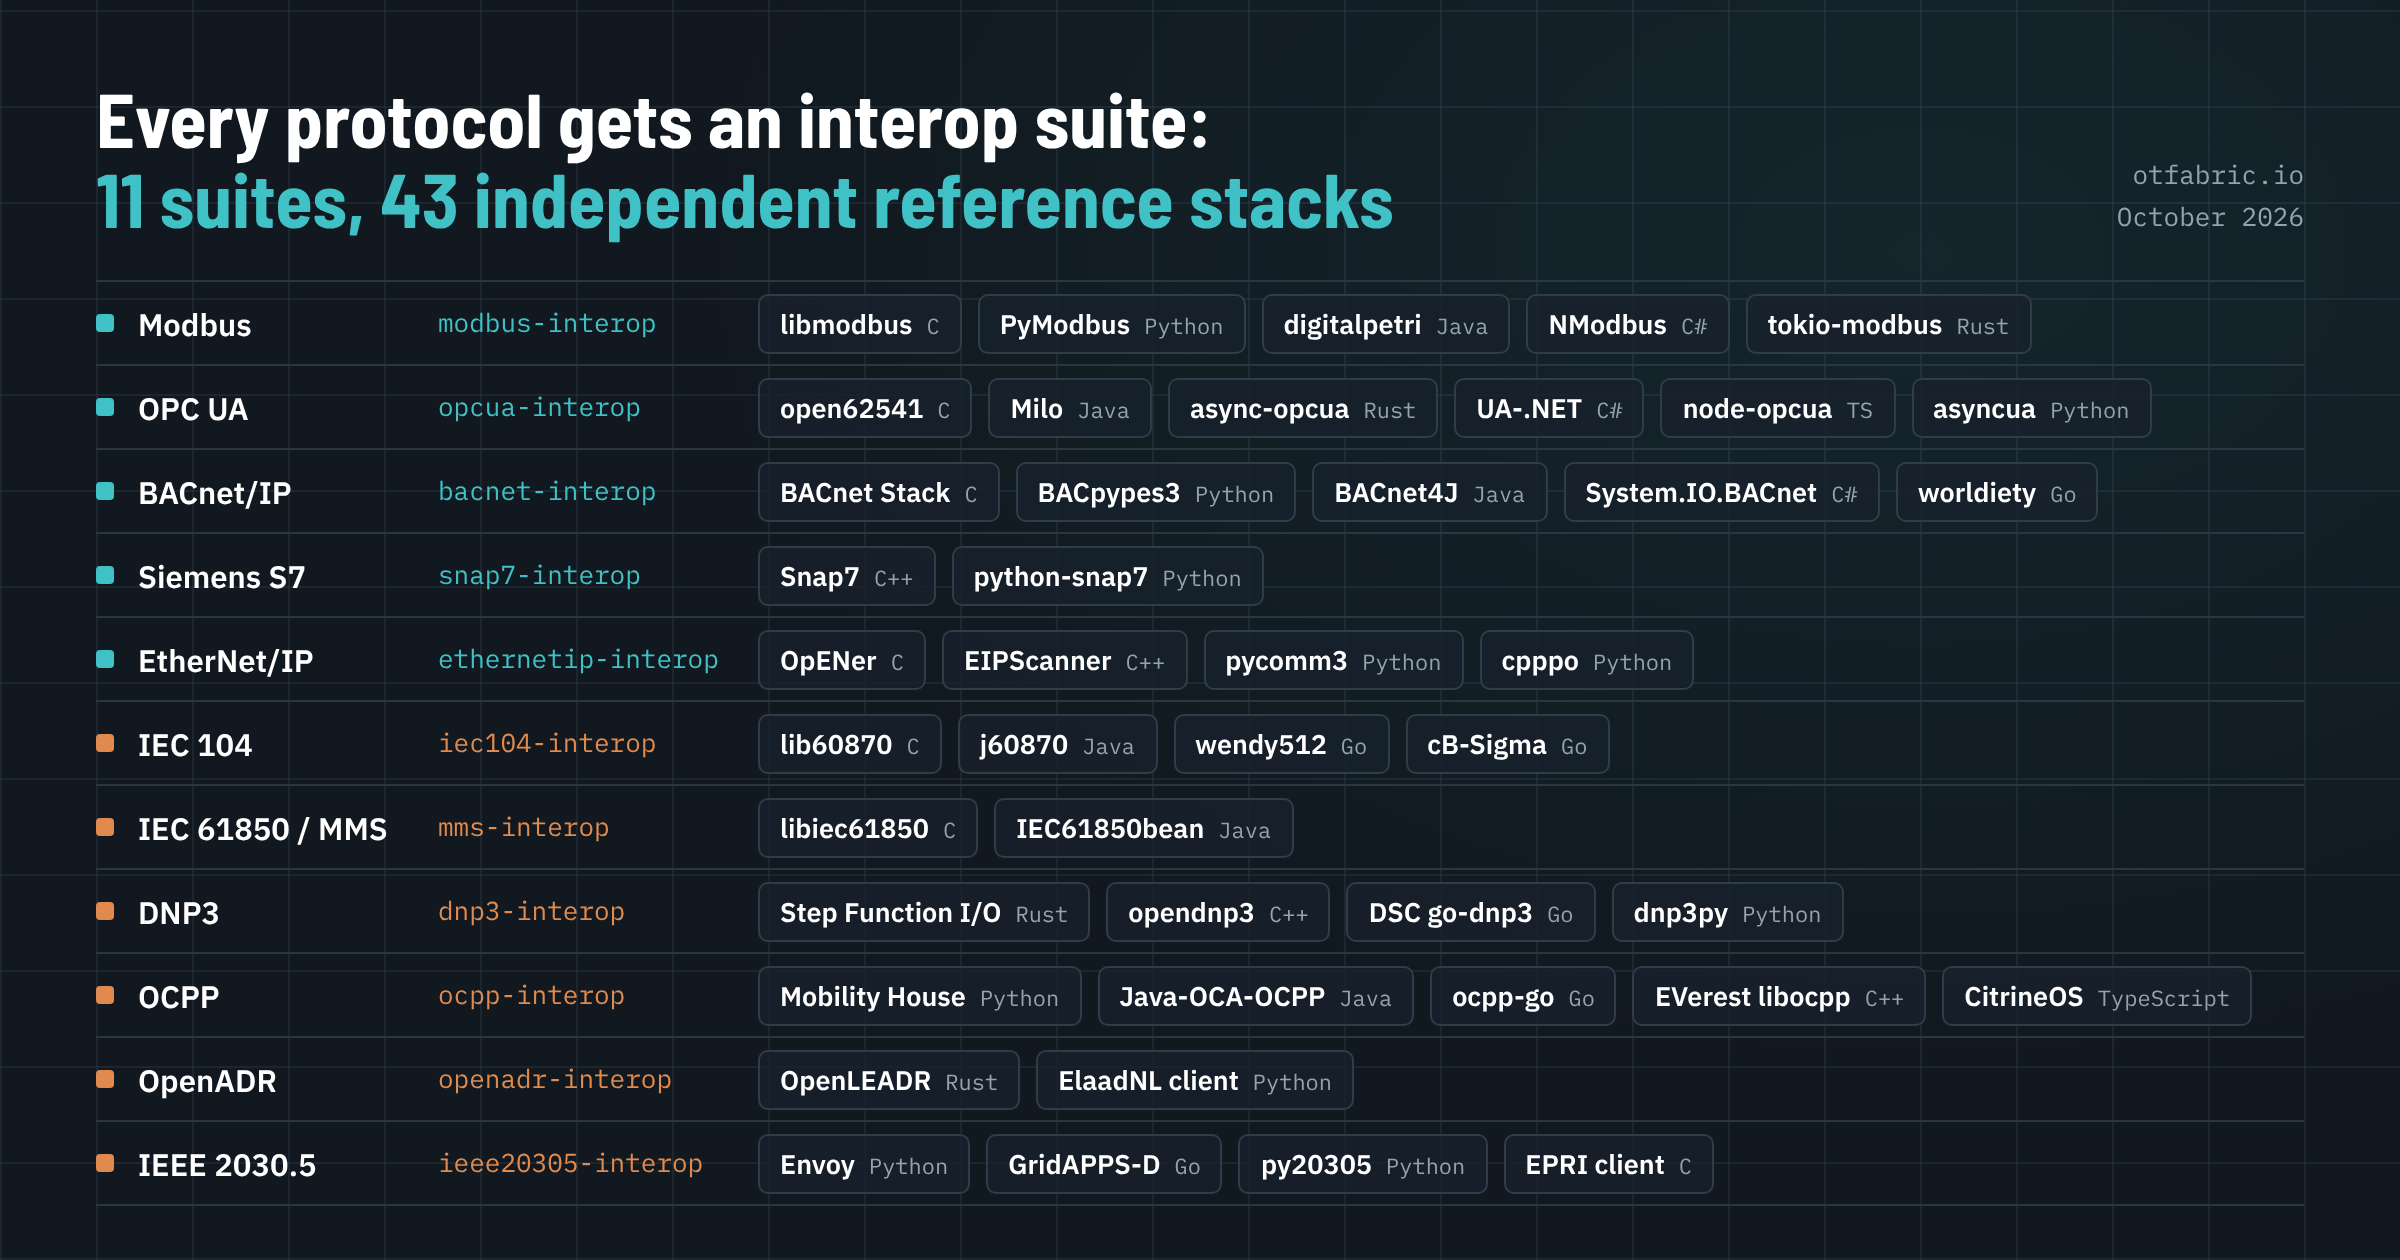
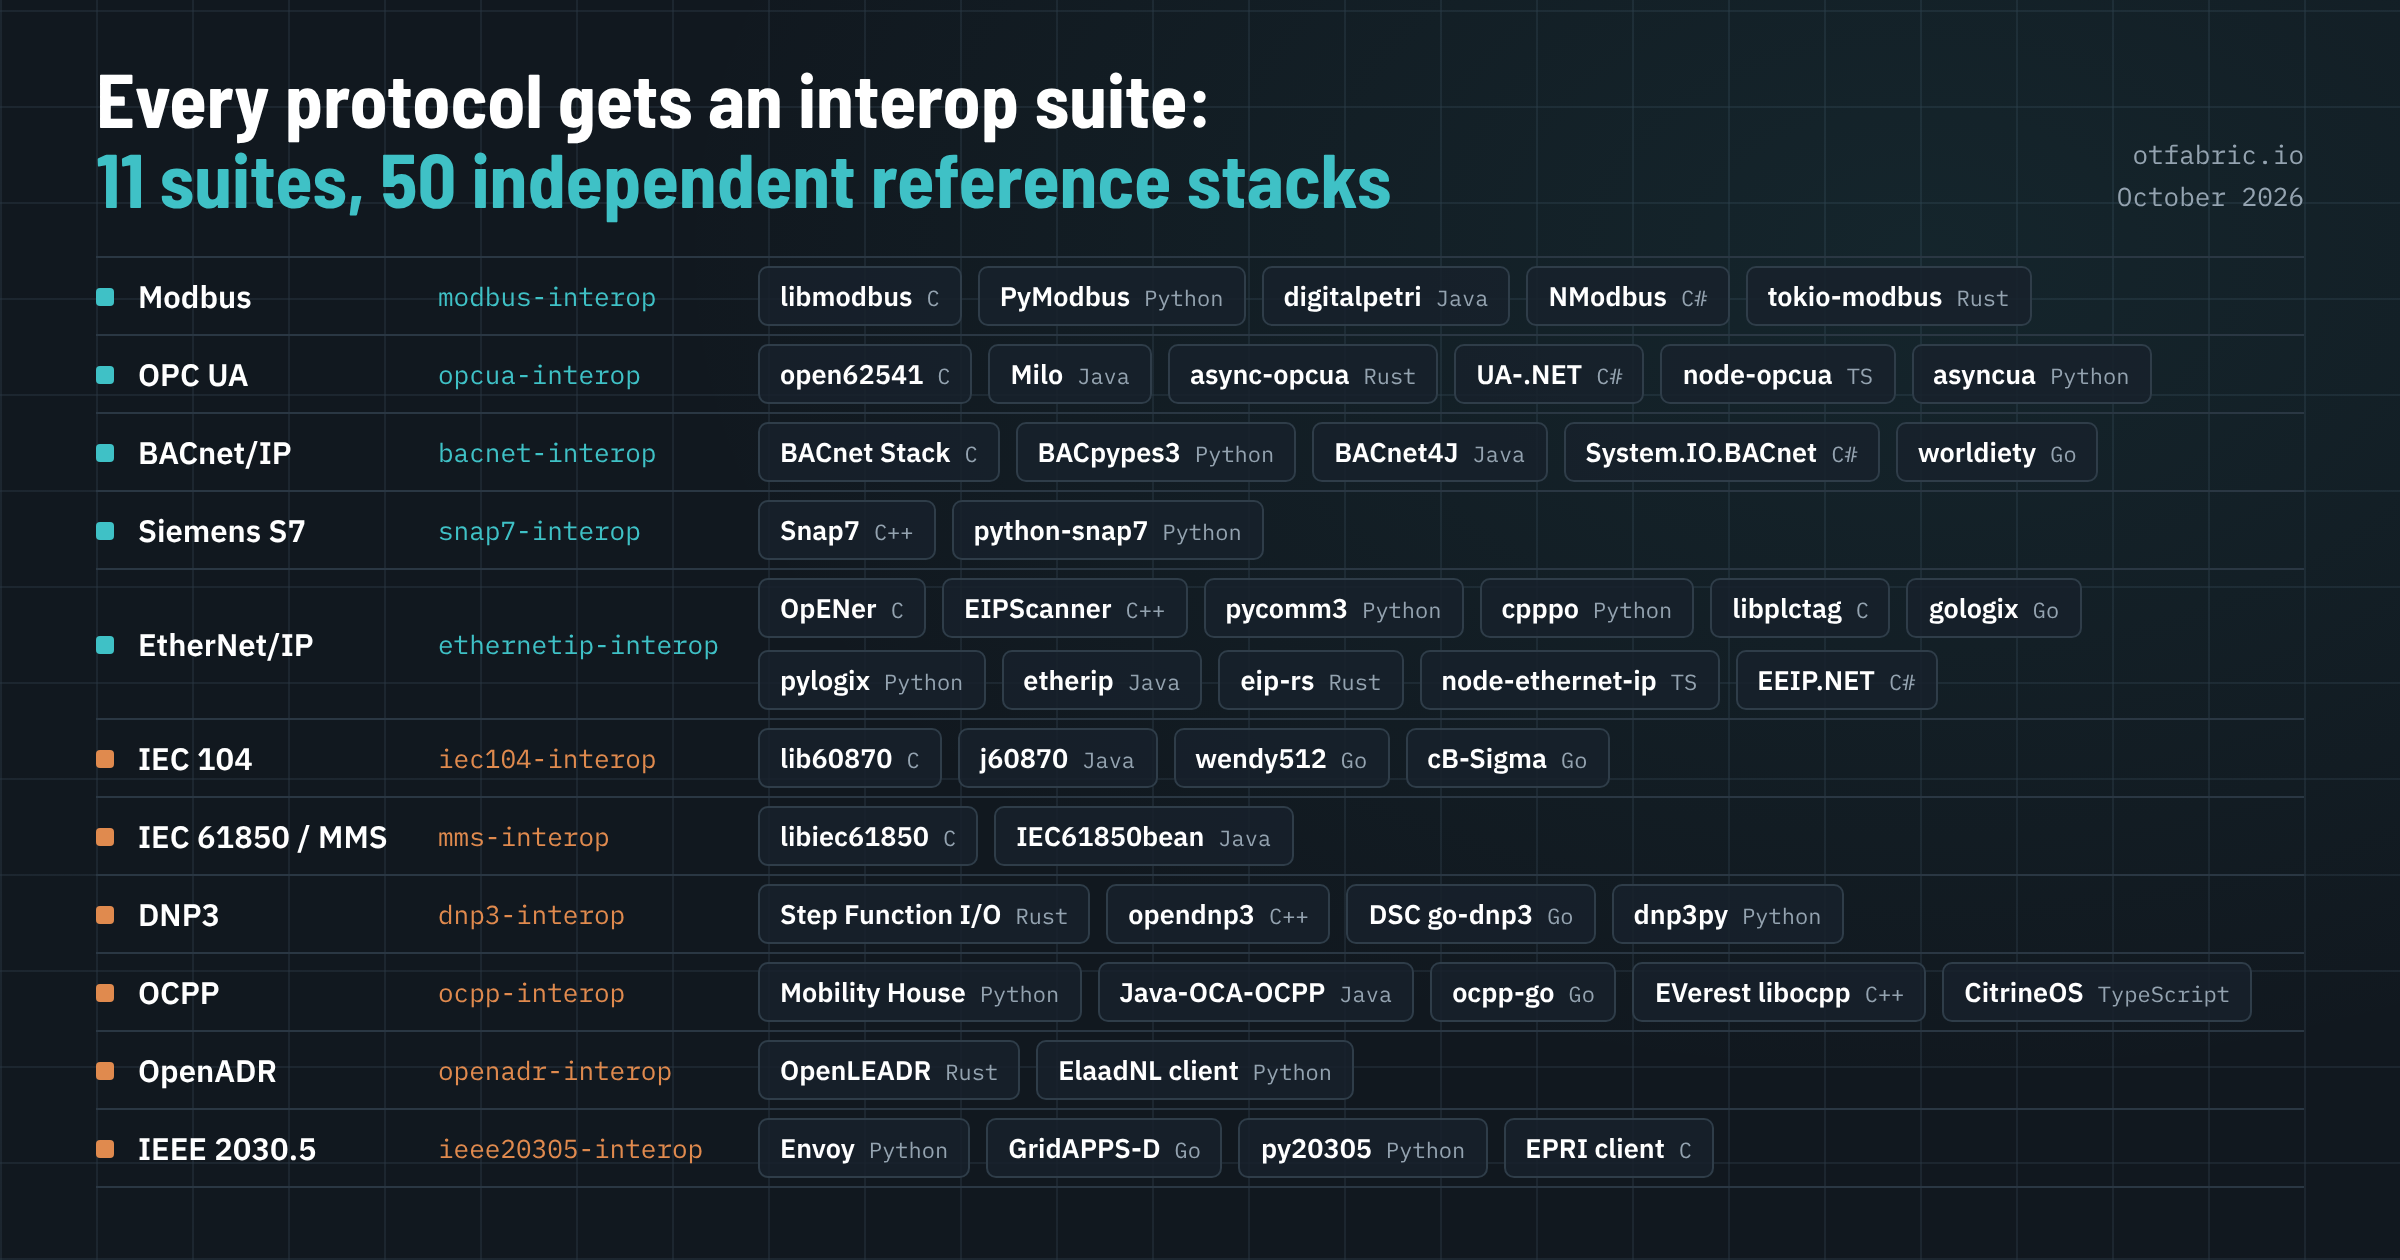
Redesign the ecosystem protocol selector; EtherNet/IP interop with eleven stacks (#29)
* Redesign the ecosystem protocol selector as a wrapping grid

The protocol pills overflowed into a horizontal scrollbar at 11 protocols.
They now wrap into an even grid on desktop and fold behind a single
'current protocol' button on phones. Arrow, Home and End keys move
between tabs, and the map card no longer widens the page on phones.

Claude-Session: https://claude.ai/code/session_01FcRff6EQbY475YMKaoKu9i

* Update EtherNet/IP for go-ethernetip v0.3.0 and ethernetip-interop v0.3.0

ethernetip-interop v0.3.0 adds seven reference stacks (libplctag, gologix,
pylogix, etherip, eip-rs, node-ethernet-ip and EEIP.NET); go-ethernetip
v0.3.0 passes 173 cases against all eleven, none failing. The map marks
the seven as interop tested (51 in total), the testing page, protocol
page, docs, catalog and both blog posts follow, ethernetipctl is v0.2.2,
and the interop suites cover now shows 50 reference stacks.

Claude-Session: https://claude.ai/code/session_01FcRff6EQbY475YMKaoKu9i

---------

diff --git a/src/content/blog/why-every-protocol-gets-an-interop-suite.md b/src/content/blog/why-every-protocol-gets-an-interop-suite.md
@@ -1,12 +1,12 @@
 ---
 title: Why every protocol gets an interop suite
-description: Every OT Fabric protocol is tested against independent implementations. Eleven interop suites package 43 reference stacks as containers behind one contract, test them against each other first, and record what they find in our code and in theirs.
+description: Every OT Fabric protocol is tested against independent implementations. Eleven interop suites package 50 reference stacks as containers behind one contract, test them against each other first, and record what they find in our code and in theirs.
 date: 2026-10-12
 updated: 2026-10-26
 authors: [OT Fabric]
 tags: [testing, interop]
 cover:
-  alt: Eleven OT Fabric interop suites and their 43 independent reference stacks. Modbus, OPC UA, BACnet/IP, Siemens S7, IEC 104, IEC 61850 / MMS, DNP3, OCPP, OpenADR, IEEE 2030.5 and EtherNet/IP, each with the open-source implementations its suite runs and their languages.
+  alt: Eleven OT Fabric interop suites and their 50 independent reference stacks. Modbus, OPC UA, BACnet/IP, Siemens S7, IEC 104, IEC 61850 / MMS, DNP3, OCPP, OpenADR, IEEE 2030.5 and EtherNet/IP, each with the open-source implementations its suite runs and their languages.
   image: ../../assets/blog/interop-suites.png
 ---
 
@@ -14,7 +14,7 @@ A protocol library that only passes its own tests proves very little. Two implem
 
 So every OT Fabric protocol comes with an interoperability suite: independent, established stacks packaged as containers, with deterministic fixtures and a common contract. Our libraries and tools are tested against them in both directions before a release says it works.
 
-## Eleven suites, 43 reference stacks
+## Eleven suites, 50 reference stacks
 
 | Protocol | Suite | Reference implementations |
 |---|---|---|
@@ -28,7 +28,7 @@ So every OT Fabric protocol comes with an interoperability suite: independent, e
 | [OCPP](/protocols/ocpp/) | [ocpp-interop](/projects/ocpp-interop/) | The Mobility House ocpp (Python), ChargeTimeEU Java-OCA-OCPP (Java), ocpp-go (Go), EVerest libocpp (C++), CitrineOS (TypeScript) |
 | [OpenADR](/protocols/openadr/) | [openadr-interop](/projects/openadr-interop/) | OpenLEADR (Rust), ElaadNL openadr3-client (Python), plus a specification-driven conformance suite |
 | [IEEE 2030.5](/protocols/ieee-2030-5/) | [ieee20305-interop](/projects/ieee20305-interop/) | ANU Envoy (Python), GridAPPS-D (Go), DER Security py20305 (Python), EPRI client (C) |
-| [EtherNet/IP](/protocols/ethernet-ip/) | [ethernetip-interop](/projects/ethernetip-interop/) | OpENer (C), EIPScanner (C++), pycomm3 (Python), cpppo (Python) |
+| [EtherNet/IP](/protocols/ethernet-ip/) | [ethernetip-interop](/projects/ethernetip-interop/) | OpENer (C), EIPScanner (C++), pycomm3 (Python), cpppo (Python), libplctag (C), gologix (Go), pylogix (Python), etherip (Java), eip-rs (Rust), node-ethernet-ip (TypeScript), EEIP.NET (C#) |
 
 SunSpec is the exception: it is a register model on top of Modbus, so go-sunspec is tested through its own server, offline decoding and a weekly comparison with the SunSpec Alliance's model definitions, and its Modbus layer is covered by modbus-interop.
 
@@ -70,7 +70,7 @@ A library runs its own scenarios against the images, in both roles: our client a
 - **go-opcua**: client and server against all six OPC UA stacks in both directions, with 1280 verified ledger rows, plus PubSub against open62541 and UA-.NETStandard, UA JSON over HTTPS and WebSockets against UA-.NETStandard, the GDS pull model against the UA-.NETStandard Global Discovery Server, and event history and certificate management from every peer client.
 - **go-ieee20305**: its client and device agent against the Envoy and GridAPPS-D servers, and the GridAPPS-D, py20305 and EPRI clients against its server, in both editions and with the CSIP and CSIP-AUS fixtures.
 - **go-iec104**: client and server against lib60870, j60870, wendy512/iec104 and cB-Sigma in both roles, and IEC 62351-5 application-layer security against cB-Sigma in both directions: certificates from an authority or pinned, HMAC and AES-256-GCM, and role-based refusals.
-- **go-ethernetip**: 63 cases pass against OpENer, EIPScanner, pycomm3 and cpppo in both roles, none fail, with Class 1 I/O, multicast with a listen-only connection, and pycomm3's Logix driver reading and writing structures on its emulated controller.
+- **go-ethernetip**: 173 cases pass against eleven stacks in eight languages, in both roles, none fail, with Class 1 I/O against OpENer, EIPScanner and EEIP.NET, multicast with a listen-only connection, and the Logix drivers of pycomm3, eip-rs and node-ethernet-ip reading and writing structures on its emulated controller.
 
 Each protocol's *Testing and interop* page in the [documentation](/docs/protocols/) has the full matrix, and what has not been validated yet.
 
